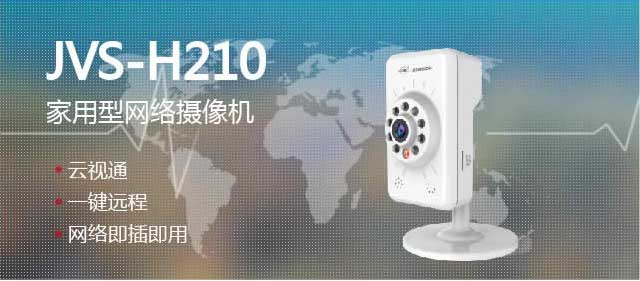
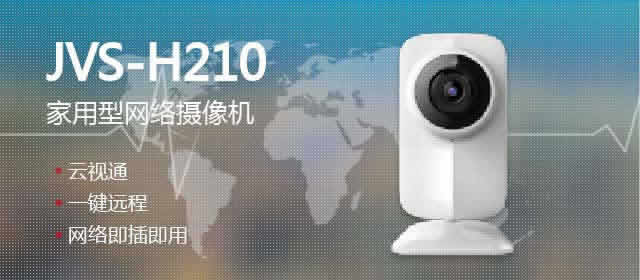
1.修改图像翻转按钮显示问题2.更新广告位的图标

diff --git a/CloudSEE_II/JVCVoiceencInfoViewController.m b/CloudSEE_II/JVCVoiceencInfoViewController.m
@@ -19,6 +19,9 @@
 
 static const CGFloat kImageIconWithTop       = 100.0f;
 static const CGFloat kInfoTVWithFontSize     = 14.0f;
+static const CGFloat kInfoTVWithTop          = 30.0f;
+static const CGFloat kVoiceTVWithWidth       = 50.0f;
+static const CGFloat kVoiceTVWithPading      = 60.0f;
 static const int     kInfoTVWithNumberOfLine = 3;
 static const CGFloat kInfoTVWithLineOfHeight = kInfoTVWithFontSize + 6.0f;
 static const int     kInfoTVOffx             = 20;
@@ -53,8 +56,19 @@ static const int     kInfoTVOffx             = 20;
     
     [self.view addSubview:imageView];
     
+    UILabel *voiceTV        = [controlHelperObj labelWithText:LOCALANGER(@"jvc_voice_add_tick")];
+    voiceTV.frame           = CGRectMake(imageView.frame.size.width-kVoiceTVWithPading, imageView.frame.size.height - kVoiceTVWithPading, kVoiceTVWithWidth , kInfoTVWithLineOfHeight*kInfoTVWithNumberOfLine);
+    voiceTV.textAlignment   = NSTextAlignmentCenter;
+    voiceTV.lineBreakMode   = NSLineBreakByWordWrapping;
+    voiceTV.textColor       = [UIColor whiteColor];
+    
+    voiceTV.font            = [UIFont systemFontOfSize:kInfoTVWithFontSize+2.0];
+    
+    [imageView addSubview:voiceTV];
+    
+    
     UILabel *infoTV        = [controlHelperObj labelWithText:LOCALANGER(@"jvc_voice_add_help")];
-    infoTV.frame           = CGRectMake(kInfoTVOffx, 30.0, self.view.width -2*kInfoTVOffx , kInfoTVWithLineOfHeight*kInfoTVWithNumberOfLine);
+    infoTV.frame           = CGRectMake(kInfoTVOffx, kInfoTVWithTop, self.view.width -2*kInfoTVOffx , kInfoTVWithLineOfHeight*kInfoTVWithNumberOfLine);
     infoTV.textAlignment   = NSTextAlignmentCenter;
     infoTV.numberOfLines   = kInfoTVWithNumberOfLine;
     infoTV.lineBreakMode   = NSLineBreakByWordWrapping;

diff --git a/CloudSEE_II/AppDelegate.m b/CloudSEE_II/AppDelegate.m
@@ -360,7 +360,6 @@ static NSString const *KCheckLocationURL         = @"http://int.dpool.sina.com.c
     
     int netLinkType = NETLINTYEPE_NONET;
     
-    DDLogVerbose(@"%d======000",configObj._netLinkType);
 
     if([reach isReachableViaWWAN]){
         
@@ -406,7 +405,6 @@ static NSString const *KCheckLocationURL         = @"http://int.dpool.sina.com.c
 
         });
     }
-
 }
 
 /**
@@ -626,7 +624,6 @@ static NSString const *KCheckLocationURL         = @"http://int.dpool.sina.com.c
 - (void)stopDeviceListTimer
 {
     [deviceListController stopTimer];
-
 }
 
 /**
@@ -670,8 +667,6 @@ static NSString const *KCheckLocationURL         = @"http://int.dpool.sina.com.c
     [saveCacheDeviceListData release];
     
     [[NSUserDefaults standardUserDefaults] setObject:cacheDeviceData forKey:(NSString *)kAPPLocalCaheKey];
-    
-    
 }
 
 #pragma mark 绑定小助手功能
@@ -699,7 +694,6 @@ static NSString const *KCheckLocationURL         = @"http://int.dpool.sina.com.c
     
     if (![[JVCDeviceSourceHelper shareDeviceSourceHelper] judgeDeviceHasExist:alarmModelSelect.strYstNumber]) {
         
-        DDLogVerbose(@"%s--- nil",__FUNCTION__);
         return;
     }
     
@@ -729,9 +723,7 @@ static NSString const *KCheckLocationURL         = @"http://int.dpool.sina.com.c
     }
     
     [tOPVC release];
-
 }
-
 
 - (void)dealloc
 {

diff --git a/CloudSEE_II/JVCKeepOnlineHelp.m b/CloudSEE_II/JVCKeepOnlineHelp.m
@@ -252,6 +252,7 @@ UIAlertView *alertView;
         alertViewIOS8.view.tag = 2*KTAGADDNUM;
         
             [alertViewIOS8 addAction:[UIAlertAction actionWithTitle:LOCALANGER(@"AlertkeepLineError_LoginIn") style:UIAlertActionStyleDefault handler:^(UIAlertAction *action) {
+                
                 [self stopTimerCountDown];
 
                 [self loginInWithOffLine];
@@ -260,6 +261,7 @@ UIAlertView *alertView;
             }]];
         
             [alertViewIOS8 addAction:[UIAlertAction actionWithTitle:LOCALANGER(@"AlertkeepLineError_userOut") style:UIAlertActionStyleDefault handler:^(UIAlertAction *action) {
+                
                 [self stopTimerCountDown];
 
                 [self keepOnLineErrorToPresentLoginViewController];

diff --git a/CloudSEE_II/JVCManagePalyVideoComtroller.mm b/CloudSEE_II/JVCManagePalyVideoComtroller.mm
@@ -911,18 +911,13 @@ BOOL isAllLinkRun;
     if (self.nSelectedChannelIndex + 1 == nLocalChannel) {
     
         [self refreshStreamType:nStreamType withIsHomeIPC:singleView.isHomeIPC effectType:singleView.iEffectType StorageType:storageType];
-        
-        
-        DDLogVerbose(@"%s----effectType=%d",__FUNCTION__,effectType&0x04);
-        
-        
     }
     
-    //[self refreshEffectType:nLocalChannel effectType:effectType&0x04];
-    
-   
-    DDLogCVerbose(@"%s----nStreamType=%d==iEffectType=%d",__FUNCTION__,nStreamType,effectType);
-
+    dispatch_async(dispatch_get_main_queue(), ^{
+        
+        [singleView updateEffectBtn:effectType&0x04];
+        
+    });
 }
 
 /**

diff --git a/CloudSEE_II/JVCLoginViewController.mm b/CloudSEE_II/JVCLoginViewController.mm
@@ -86,7 +86,7 @@ static const CGFloat        KTitleSeperateSpan = 15.0f;//控件之间的间隔
 static const NSString       *KFISTOPEN  =@"fistOpen";//第一次打开
 static const CGFloat        kBottomButtonTitleFont              = 16.0f;
 static const CGFloat        kBottomButtonTitleHeight            = kBottomButtonTitleFont + 6.0;
-static const CGFloat        kRegisterButtonWithLocalButtonLeft  = 30.0f;
+static const CGFloat        kRegisterButtonWithLocalButtonLeft  = 15.0f;
 static const CGFloat        kBottomButtonWithLineHeight         = 1.0f;//横线的高度
 
 - (id)initWithNibName:(NSString *)nibNameOrNil bundle:(NSBundle *)nibBundleOrNil

diff --git a/CloudSEE_II/JVCMonitorConnectionSingleImageView.m b/CloudSEE_II/JVCMonitorConnectionSingleImageView.m
@@ -839,7 +839,8 @@ float min_offset;
     
     UIButton *effectBtn=(UIButton*)[self viewWithTag:108];
     
-    if ((self.iEffectType&0x04)<0) {
+    if ( self.iEffectType == -1 ) {
+        
         return;
     }
         
@@ -862,10 +863,15 @@ float min_offset;
  */
 - (void)showEffectBtn
 {
-    if([JVCHorizontalScreenBar shareHorizontalBarInstance].hidden == YES)
+    UISlider *slider = (UISlider*)[self viewWithTag:107];
+    
+    if([JVCHorizontalScreenBar shareHorizontalBarInstance].hidden == YES && slider.hidden)
     {
         [self setEffectBtnState:NO];
 
+    }else{
+    
+        [self setEffectBtnState:YES];
     }
 }
 
